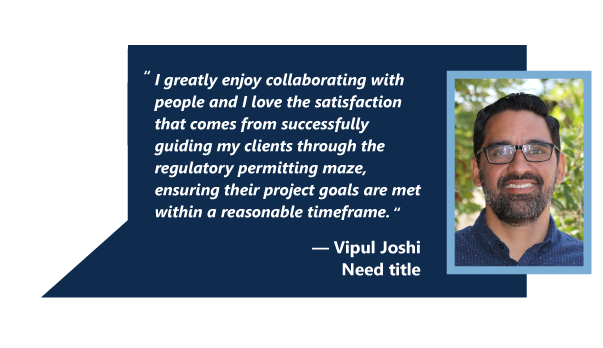
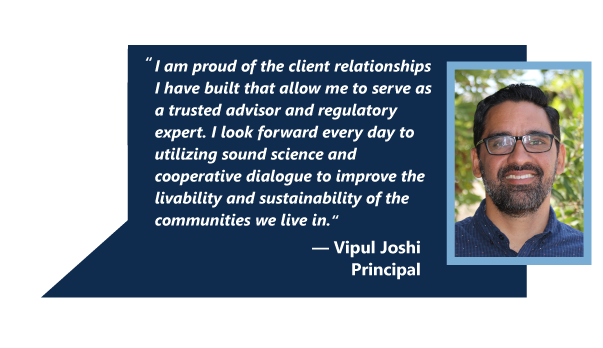
commit-update one quote

Changed region(s): [[0.2388, 0.1724, 0.9851, 0.8046]]

diff --git a/index.hyperesources/index_hype_generated_script.js b/index.hyperesources/index_hype_generated_script.js
@@ -3,5 +3,5 @@
 (function(){(function m(){function k(a,b,c,d){var e=!1;null==window[a]&&(null==window[b]?(window[b]=[],window[b].push(m),a=document.getElementsByTagName("head")[0],b=document.createElement("script"),e=l,false==!0&&(e=""),b.type="text/javascript",""!=d&&(b.integrity=d,b.setAttribute("crossorigin","anonymous")),b.src=e+"/"+c,a.appendChild(b)):window[b].push(m),e=!0);return e}var l="index.hyperesources",f="index",g="index_hype_container";if(false==
 !1)try{for(var c=document.getElementsByTagName("script"),a=0;a<c.length;a++){var d=c[a].src,b=null!=d?d.indexOf("/index_hype_generated_script.js"):-1;if(-1!=b){l=d.substr(0,b);break}}}catch(p){}c=navigator.userAgent.match(/MSIE (\d+\.\d+)/);c=parseFloat(c&&c[1])||null;d=!0==(null!=window.HYPE_734F||null!=window.HYPE_dtl_734F)||false==!0||null!=c&&10>c;a=!0==d?"HYPE-734.full.min.js":"HYPE-734.thin.min.js";c=!0==d?"F":"T";d=d?"":
 "";if(false==!1&&(a=k("HYPE_734"+c,"HYPE_dtl_734"+c,a,d),false==!0&&(a=a||k("HYPE_w_734","HYPE_wdtl_734","HYPE-734.waypoints.min.js","")),false==!0&&(a=a||k("Matter","HYPE_pdtl_734","HYPE-734.physics.min.js","")),a))return;d=window.HYPE.documents;if(null!=d[f]){b=1;a=f;do f=""+a+"-"+b++;while(null!=d[f]);for(var e=document.getElementsByTagName("div"),
-b=!1,a=0;a<e.length;a++)if(e[a].id==g&&null==e[a].getAttribute("HYP_dn")){var b=1,h=g;do g=""+h+"-"+b++;while(null!=document.getElementById(g));e[a].id=g;b=!0;break}if(!1==b)return}b=[];b=[];e={};h={};for(a=0;a<b.length;a++)try{h[b[a].identifier]=b[a].name,e[b[a].name]=eval("(function(){return "+b[a].source+"})();")}catch(n){window.console&&window.console.log(n),e[b[a].name]=function(){}}c=new window["HYPE_734"+c](f,g,{"-2":{n:"blank.gif"},"18":{p:1,n:"legend_2x.png",g:"281",o:true,t:"@2x"},"10":{p:1,n:"Keith_quote.png",g:"256",o:true,t:"@1x"},"11":{p:1,n:"Keith_quote_2x.png",g:"256",o:true,t:"@2x"},"0":{p:1,n:"state_lines.png",g:"37",t:"@1x"},"12":{p:1,n:"Dustin_quote.png",g:"214",t:"@1x"},"1":{p:1,n:"lines.png",g:"23",t:"@1x"},"2":{p:1,n:"peeps.png",g:"25",t:"@1x"},"13":{p:1,n:"map.png",g:"19",t:"@1x"},"3":{p:1,n:"laurie_M_quote.png",g:"126",t:"@1x"},"14":{p:1,n:"blue_dot.png",g:"59",o:true,t:"@1x"},"4":{p:1,n:"lisa_quote.png",g:"196",t:"@1x"},"5":{p:1,n:"erlin_quote.png",g:"234",t:"@1x"},"15":{p:1,n:"blue_dot_2x.png",g:"59",o:true,t:"@2x"},"6":{p:1,n:"adrienne_quote.png",g:"252",t:"@1x"},"16":{p:1,n:"Rose_quote.png",g:"86",t:"@1x"},"-1":{n:"PIE.htc"},"7":{p:1,n:"Vipul_quote.png",g:"160",t:"@1x"},"8":{p:1,n:"allison_quote.png",g:"254",o:true,t:"@1x"},"17":{p:1,n:"legend.png",g:"281",o:true,t:"@1x"},"9":{p:1,n:"allison_quote_2x.png",g:"254",o:true,t:"@2x"}},l,[],e,[{n:"opening",o:"1",X:[0]},{n:"adrienne",o:"236",X:[1]},{n:"Erlin",o:"218",X:[2]},{n:"Rose",o:"258",X:[3]},{n:"Allison",o:"88",X:[4]},{n:"Laurie",o:"110",X:[5]},{n:"vipul",o:"144",X:[6]},{n:"Keith",o:"162",X:[7]},{n:"Lisa",o:"180",X:[8]},{n:"dustin",o:"198",X:[9]}],
-[{o:"3",p:"600px",cA:false,Y:1240,Z:800,L:[],c:"#FFF",bY:1,d:1240,U:{},T:{kTimelineDefaultIdentifier:{q:false,z:2,i:"kTimelineDefaultIdentifier",n:"Main Timeline",a:[{f:"c",y:0,z:1,i:"e",e:0,s:1,o:"288"},{f:"c",y:0,z:1,i:"e",e:0,s:1,o:"293"},{f:"c",y:0,z:1,i:"e",e:0,s:1,o:"283"},{f:"c",y:0,z:1,i:"e",e:0,s:1,o:"286"},{f:"c",y:0,z:1,i:"e",e:0,s:1,o:"289"},{f:"c",y:0,z:1,i:"e",e:0,s:1,o:"291"},{f:"c",y:0,z:1,i:"e",e:0,s:1,o:"295"},{f:"c",y:0,z:1,i:"e",e:0,s:1,o:"284"},{f:"c",y:0,z:1,i:"e",e:0,s:1,o:"287"},{f:"c",y:1,z:1,i:"e",e:1,s:0,o:"288"},{f:"c",y:1,z:1,i:"e",e:1,s:0,o:"293"},{f:"c",y:1,z:1,i:"e",e:1,s:0,o:"283"},{f:"c",y:1,z:1,i:"e",e:1,s:0,o:"286"},{f:"c",y:1,z:1,i:"e",e:1,s:0,o:"289"},{f:"c",y:1,z:1,i:"e",e:1,s:0,o:"291"},{f:"c",y:1,z:1,i:"e",e:1,s:0,o:"295"},{f:"c",y:1,z:1,i:"e",e:1,s:0,o:"284"},{f:"c",y:1,z:1,i:"e",e:1,s:0,o:"287"},{f:"c",p:2,y:2,z:0,i:"ActionHandler",s:{a:[{b:"kTimelineDefaultIdentifier",p:3,z:false,symbolOid:"2"}]},o:"kTimelineDefaultIdentifier"},{y:2,i:"e",s:1,z:0,o:"288",f:"c"},{y:2,i:"e",s:1,z:0,o:"293",f:"c"},{y:2,i:"e",s:1,z:0,o:"283",f:"c"},{y:2,i:"e",s:1,z:0,o:"286",f:"c"},{y:2,i:"e",s:1,z:0,o:"289",f:"c"},{y:2,i:"e",s:1,z:0,o:"291",f:"c"},{y:2,i:"e",s:1,z:0,o:"295",f:"c"},{y:2,i:"e",s:1,z:0,o:"284",f:"c"},{y:2,i:"e",s:1,z:0,o:"287",f:"c"}],f:30,b:[]}},bZ:180,O:["285","290","294","292","284","295","288","286","289","287","293","283","296","291"],n:"Untitled Layout","_":0,v:{"292":{h:"23",p:"no-repeat",x:"visible",a:20,dB:"img",q:"100% 100%",j:"absolute",r:"inline",z:6,b:20,k:"div",d:800,c:1240,e:1},"289":{aD:{a:[{d:0.25,p:1,g:2,e:"162"}]},p:"no-repeat",x:"visible",h:"59",q:"100% 100%",a:487,j:"absolute",r:"inline",z:12,b:318,dB:"img",d:39,k:"div",c:39,e:1,aP:"pointer"},"284":{aD:{a:[{d:0.25,p:1,g:2,e:"218"}]},p:"no-repeat",x:"visible",h:"59",q:"100% 100%",a:1019,j:"absolute",r:"inline",z:15,b:230,dB:"img",d:39,k:"div",c:39,e:1,aP:"pointer"},"290":{h:"37",p:"no-repeat",x:"visible",a:0,dB:"img",q:"100% 100%",j:"absolute",r:"inline",z:2,k:"div",b:0,d:800,c:1240},"295":{aD:{a:[{d:0.5,p:1,g:2,e:"180"}]},p:"no-repeat",x:"visible",h:"59",q:"100% 100%",a:793,j:"absolute",r:"inline",z:14,b:279,dB:"img",d:39,k:"div",c:39,e:1,aP:"pointer"},"287":{aD:{a:[{d:0.5,p:1,g:2,e:"236"}]},p:"no-repeat",x:"visible",h:"59",q:"100% 100%",a:1135,j:"absolute",r:"inline",z:16,b:464,dB:"img",d:39,k:"div",c:39,e:1,aP:"pointer"},"293":{aD:{a:[{d:0.25,p:1,g:2,e:"110"}]},p:"no-repeat",x:"visible",h:"59",q:"100% 100%",a:85,j:"absolute",r:"inline",z:9,b:472,dB:"img",d:39,k:"div",c:39,e:1,aP:"pointer"},"296":{h:"281",p:"no-repeat",x:"visible",a:832,dB:"img",q:"100% 100%",j:"absolute",r:"inline",z:17,k:"div",b:539,d:22.32,c:201.6},"291":{aD:{a:[{d:0.5,p:1,g:2,e:"198"}]},p:"no-repeat",x:"visible",h:"59",q:"100% 100%",a:387,j:"absolute",r:"inline",z:13,b:606,dB:"img",d:39,k:"div",c:39,e:1,aP:"pointer"},"285":{h:"25",p:"no-repeat",x:"visible",a:4,dB:"img",q:"100% 100%",j:"absolute",r:"inline",z:5,k:"div",b:0,d:800,c:1240},"294":{h:"19",p:"no-repeat",x:"visible",a:0,dB:"img",q:"100% 100%",j:"absolute",r:"inline",z:1,k:"div",b:0,d:800,c:1240},"283":{aD:{a:[{d:0.25,p:1,g:2,e:"144"}]},p:"no-repeat",x:"visible",h:"59",q:"100% 100%",a:149,j:"absolute",r:"inline",z:10,b:541,dB:"img",d:39,k:"div",c:39,e:1,aP:"pointer"},"288":{aD:{a:[{d:0.25,p:1,g:2,e:"258"}]},p:"no-repeat",x:"visible",h:"59",q:"100% 100%",a:124,j:"absolute",r:"inline",b:310,z:7,dB:"img",d:39,k:"div",c:39,e:1,aP:"pointer",bD:"none"},"286":{aD:{a:[{d:0.25,p:1,g:2,e:"88"}]},p:"no-repeat",x:"visible",h:"59",q:"100% 100%",a:228,j:"absolute",r:"inline",z:11,b:305,dB:"img",d:39,k:"div",c:39,e:1,aP:"pointer"}}},{o:"251",p:"600px",cA:false,Y:1240,Z:800,L:[],c:"#FFF",bY:1,d:1240,U:{},T:{kTimelineDefaultIdentifier:{q:false,z:0,i:"kTimelineDefaultIdentifier",n:"Main Timeline",a:[],f:30,b:[]}},bZ:180,O:["299","301","297","298","300","302"],n:"Untitled Layout","_":1,v:{"299":{h:"25",p:"no-repeat",x:"visible",a:4,dB:"img",q:"100% 100%",j:"absolute",r:"inline",z:4,k:"div",b:0,d:800,c:1240},"301":{h:"37",p:"no-repeat",x:"visible",a:0,dB:"img",q:"100% 100%",j:"absolute",r:"inline",z:2,k:"div",b:0,d:800,c:1240},"302":{h:"59",p:"no-repeat",x:"visible",a:1135,q:"100% 100%",b:464,j:"absolute",r:"inline",z:15,dB:"img",k:"div",d:39,c:39,e:1,aP:"pointer",aC:{a:[{d:0.25,p:1,g:2,e:"1"}]}},"297":{h:"19",p:"no-repeat",x:"visible",a:0,dB:"img",q:"100% 100%",j:"absolute",r:"inline",z:1,k:"div",b:0,d:800,c:1240},"298":{h:"23",p:"no-repeat",x:"visible",a:20,dB:"img",q:"100% 100%",j:"absolute",r:"inline",z:5,b:20,k:"div",d:800,c:1240,e:1},"300":{h:"252",p:"no-repeat",x:"visible",a:581,dB:"img",q:"100% 100%",j:"absolute",r:"inline",z:6,k:"div",b:442,d:348,c:603}}},{o:"233",p:"600px",cA:false,Y:1240,Z:800,L:[],c:"#FFF",bY:1,d:1240,U:{},T:{kTimelineDefaultIdentifier:{q:false,z:0,i:"kTimelineDefaultIdentifier",n:"Main Timeline",a:[],f:30,b:[]}},bZ:180,O:["304","307","306","303","305","308"],n:"Untitled Layout","_":2,v:{"308":{h:"59",p:"no-repeat",x:"visible",a:1019,q:"100% 100%",b:230,j:"absolute",r:"inline",z:14,dB:"img",k:"div",d:39,c:39,e:1,aP:"pointer",aC:{a:[{d:0.25,p:1,g:2,e:"1"}]}},"305":{h:"234",p:"no-repeat",x:"visible",a:471,dB:"img",q:"100% 100%",j:"absolute",r:"inline",z:6,k:"div",b:203,d:348,c:603},"306":{h:"19",p:"no-repeat",x:"visible",a:0,dB:"img",q:"100% 100%",j:"absolute",r:"inline",z:1,k:"div",b:0,d:800,c:1240},"303":{h:"23",p:"no-repeat",x:"visible",a:20,dB:"img",q:"100% 100%",j:"absolute",r:"inline",z:5,b:20,k:"div",d:800,c:1240,e:1},"307":{h:"37",p:"no-repeat",x:"visible",a:0,dB:"img",q:"100% 100%",j:"absolute",r:"inline",z:2,k:"div",b:0,d:800,c:1240},"304":{h:"25",p:"no-repeat",x:"visible",a:4,dB:"img",q:"100% 100%",j:"absolute",r:"inline",z:4,k:"div",b:0,d:800,c:1240}}},{o:"266",p:"600px",cA:false,Y:1240,Z:800,L:[],c:"#FFF",bY:1,d:1240,U:{},T:{kTimelineDefaultIdentifier:{q:false,z:0,i:"kTimelineDefaultIdentifier",n:"Main Timeline",a:[],f:30,b:[]}},bZ:180,O:["314","313","312","311","310","309"],n:"Untitled Layout","_":3,v:{"313":{h:"37",p:"no-repeat",x:"visible",a:0,dB:"img",q:"100% 100%",j:"absolute",r:"inline",z:2,k:"div",b:0,d:800,c:1240},"310":{h:"86",p:"no-repeat",x:"visible",a:124,dB:"img",q:"100% 100%",j:"absolute",r:"inline",z:6,k:"div",b:285,d:348,c:603},"309":{h:"59",p:"no-repeat",x:"visible",a:124,q:"100% 100%",b:310,j:"absolute",r:"inline",z:7,dB:"img",k:"div",d:39,c:39,e:1,aP:"pointer",aC:{a:[{d:0.25,p:1,g:2,e:"1"}]}},"311":{h:"23",p:"no-repeat",x:"visible",a:20,dB:"img",q:"100% 100%",j:"absolute",r:"inline",z:5,b:20,k:"div",d:800,c:1240,e:1},"314":{h:"25",p:"no-repeat",x:"visible",a:4,dB:"img",q:"100% 100%",j:"absolute",r:"inline",z:4,k:"div",b:0,d:800,c:1240},"312":{h:"19",p:"no-repeat",x:"visible",a:0,dB:"img",q:"100% 100%",j:"absolute",r:"inline",z:1,k:"div",b:0,d:800,c:1240}}},{o:"103",p:"600px",cA:false,Y:1240,Z:800,L:[],c:"#FFF",bY:1,d:1240,U:{},T:{kTimelineDefaultIdentifier:{q:false,z:0,i:"kTimelineDefaultIdentifier",n:"Main Timeline",a:[],f:30,b:[]}},bZ:180,O:["317","318","319","315","320","316"],n:"Untitled Layout","_":4,v:{"320":{h:"59",p:"no-repeat",x:"visible",a:228,q:"100% 100%",b:305,j:"absolute",r:"inline",z:11,dB:"img",k:"div",d:39,c:39,e:1,aP:"pointer",aC:{a:[{d:0.25,p:1,g:2,e:"1"}]}},"317":{h:"25",p:"no-repeat",x:"visible",a:4,dB:"img",q:"100% 100%",j:"absolute",r:"inline",z:4,k:"div",b:0,d:800,c:1240},"318":{h:"37",p:"no-repeat",x:"visible",a:0,dB:"img",q:"100% 100%",j:"absolute",r:"inline",z:2,k:"div",b:0,d:800,c:1240},"315":{h:"23",p:"no-repeat",x:"visible",a:20,dB:"img",q:"100% 100%",j:"absolute",r:"inline",z:5,b:20,k:"div",d:800,c:1240,e:1},"319":{h:"19",p:"no-repeat",x:"visible",a:0,dB:"img",q:"100% 100%",j:"absolute",r:"inline",z:1,k:"div",b:0,d:800,c:1240},"316":{h:"254",p:"no-repeat",x:"visible",a:257,dB:"img",q:"100% 100%",j:"absolute",r:"inline",z:10,k:"div",b:325,d:252.48,c:544.56}}},{o:"125",p:"600px",cA:false,Y:1240,Z:800,L:[],c:"#FFF",bY:1,d:1240,U:{},T:{kTimelineDefaultIdentifier:{q:false,z:0,i:"kTimelineDefaultIdentifier",n:"Main Timeline",a:[],f:30,b:[]}},bZ:180,O:["321","324","322","325","323","326"],n:"Untitled Layout","_":5,v:{"325":{h:"23",p:"no-repeat",x:"visible",a:20,dB:"img",q:"100% 100%",j:"absolute",r:"inline",z:5,b:20,k:"div",d:800,c:1240,e:1},"322":{h:"19",p:"no-repeat",x:"visible",a:0,dB:"img",q:"100% 100%",j:"absolute",r:"inline",z:1,k:"div",b:0,d:800,c:1240},"326":{h:"59",p:"no-repeat",x:"visible",a:85,q:"100% 100%",b:472,j:"absolute",r:"inline",z:8,dB:"img",k:"div",d:39,c:39,e:1,aP:"pointer",aC:{a:[{d:0.25,p:1,g:2,e:"1"}]}},"323":{h:"126",p:"no-repeat",x:"visible",a:76,dB:"img",q:"100% 100%",j:"absolute",r:"inline",z:7,k:"div",b:444,d:348,c:603},"324":{h:"37",p:"no-repeat",x:"visible",a:0,dB:"img",q:"100% 100%",j:"absolute",r:"inline",z:2,k:"div",b:0,d:800,c:1240},"321":{h:"25",p:"no-repeat",x:"visible",a:4,dB:"img",q:"100% 100%",j:"absolute",r:"inline",z:4,k:"div",b:0,d:800,c:1240}}},{o:"159",p:"600px",cA:false,Y:1240,Z:800,L:[],c:"#FFF",bY:1,d:1240,U:{},T:{kTimelineDefaultIdentifier:{q:false,z:0,i:"kTimelineDefaultIdentifier",n:"Main Timeline",a:[],f:30,b:[]}},bZ:180,O:["329","331","330","327","328","332"],n:"Untitled Layout","_":6,v:{"330":{h:"19",p:"no-repeat",x:"visible",a:0,dB:"img",q:"100% 100%",j:"absolute",r:"inline",z:1,k:"div",b:0,d:800,c:1240},"329":{h:"25",p:"no-repeat",x:"visible",a:4,dB:"img",q:"100% 100%",j:"absolute",r:"inline",z:4,k:"div",b:0,d:800,c:1240},"331":{h:"37",p:"no-repeat",x:"visible",a:0,dB:"img",q:"100% 100%",j:"absolute",r:"inline",z:2,k:"div",b:0,d:800,c:1240},"327":{h:"23",p:"no-repeat",x:"visible",a:20,dB:"img",q:"100% 100%",j:"absolute",r:"inline",z:5,b:20,k:"div",d:800,c:1240,e:1},"332":{h:"59",p:"no-repeat",x:"visible",a:149,q:"100% 100%",b:541,j:"absolute",r:"inline",z:9,dB:"img",k:"div",d:39,c:39,e:1,aP:"pointer",aC:{a:[{d:0.25,p:1,g:2,e:"1"}]}},"328":{h:"160",p:"no-repeat",x:"visible",a:133,dB:"img",q:"100% 100%",j:"absolute",r:"inline",z:6,k:"div",b:267,d:348,c:603}}},{o:"177",p:"600px",cA:false,Y:1240,Z:800,L:[],c:"#FFF",bY:1,d:1240,U:{},T:{kTimelineDefaultIdentifier:{q:false,z:0,i:"kTimelineDefaultIdentifier",n:"Main Timeline",a:[],f:30,b:[]}},bZ:180,O:["333","337","338","335","336","334"],n:"Untitled Layout","_":7,v:{"337":{h:"37",p:"no-repeat",x:"visible",a:0,dB:"img",q:"100% 100%",j:"absolute",r:"inline",z:2,k:"div",b:0,d:800,c:1240},"334":{h:"256",p:"no-repeat",x:"visible",a:507,dB:"img",q:"100% 100%",j:"absolute",r:"inline",z:11,k:"div",b:338,d:252.48,c:541.44},"338":{h:"19",p:"no-repeat",x:"visible",a:0,dB:"img",q:"100% 100%",j:"absolute",r:"inline",z:1,k:"div",b:0,d:800,c:1240},"335":{h:"23",p:"no-repeat",x:"visible",a:20,dB:"img",q:"100% 100%",j:"absolute",r:"inline",z:5,b:20,k:"div",d:800,c:1240,e:1},"336":{h:"59",p:"no-repeat",x:"visible",a:487,q:"100% 100%",b:318,j:"absolute",r:"inline",z:12,dB:"img",k:"div",d:39,c:39,e:1,aP:"pointer",aC:{a:[{d:0.25,p:1,g:2,e:"1"}]}},"333":{h:"25",p:"no-repeat",x:"visible",a:4,dB:"img",q:"100% 100%",j:"absolute",r:"inline",z:4,k:"div",b:0,d:800,c:1240}}},{o:"195",p:"600px",cA:false,Y:1240,Z:800,L:[],c:"#FFF",bY:1,d:1240,U:{},T:{kTimelineDefaultIdentifier:{q:false,z:2,i:"kTimelineDefaultIdentifier",n:"Main Timeline",a:[{f:"c",y:0,z:1,i:"e",e:0,s:1,o:"342"},{f:"c",y:1,z:1,i:"e",e:1,s:0,o:"342"},{f:"c",p:2,y:2,z:0,i:"ActionHandler",s:{a:[{b:"kTimelineDefaultIdentifier",p:3,z:false,symbolOid:"2"}]},o:"kTimelineDefaultIdentifier"},{y:2,i:"e",s:1,z:0,o:"342",f:"c"}],f:30,b:[]}},bZ:180,O:["339","344","340","343","341","342"],n:"Untitled Layout","_":8,v:{"342":{h:"59",p:"no-repeat",x:"visible",a:793,q:"100% 100%",b:279,j:"absolute",r:"inline",z:13,dB:"img",k:"div",d:39,c:39,e:1,aP:"pointer",aC:{a:[{d:0.5,p:1,g:2,e:"1"}]}},"343":{h:"23",p:"no-repeat",x:"visible",a:20,dB:"img",q:"100% 100%",j:"absolute",r:"inline",z:5,b:20,k:"div",d:800,c:1240,e:1},"340":{h:"19",p:"no-repeat",x:"visible",a:0,dB:"img",q:"100% 100%",j:"absolute",r:"inline",z:1,k:"div",b:0,d:800,c:1240},"339":{h:"25",p:"no-repeat",x:"visible",a:4,dB:"img",q:"100% 100%",j:"absolute",r:"inline",z:4,k:"div",b:0,d:800,c:1240},"341":{h:"196",p:"no-repeat",x:"visible",a:245,dB:"img",q:"100% 100%",j:"absolute",r:"inline",z:6,k:"div",b:255,d:348,c:603},"344":{h:"37",p:"no-repeat",x:"visible",a:0,dB:"img",q:"100% 100%",j:"absolute",r:"inline",z:2,k:"div",b:0,d:800,c:1240}}},{o:"213",p:"600px",cA:false,Y:1240,Z:800,L:[],c:"#FFF",bY:1,d:1240,U:{},T:{kTimelineDefaultIdentifier:{q:false,z:0,i:"kTimelineDefaultIdentifier",n:"Main Timeline",a:[],f:30,b:[]}},bZ:180,O:["349","348","346","345","347","350"],n:"Untitled Layout","_":9,v:{"349":{h:"25",p:"no-repeat",x:"visible",a:4,dB:"img",q:"100% 100%",j:"absolute",r:"inline",z:4,k:"div",b:0,d:800,c:1240},"346":{h:"19",p:"no-repeat",x:"visible",a:0,dB:"img",q:"100% 100%",j:"absolute",r:"inline",z:1,k:"div",b:0,d:800,c:1240},"350":{h:"59",p:"no-repeat",x:"visible",a:387,q:"100% 100%",b:606,j:"absolute",r:"inline",z:12,dB:"img",k:"div",d:39,c:39,e:1,aP:"pointer",aC:{a:[{d:0.25,p:1,g:2,e:"1"}]}},"347":{h:"214",p:"no-repeat",x:"visible",a:394,dB:"img",q:"100% 100%",j:"absolute",r:"inline",z:6,k:"div",b:322,d:348,c:603},"348":{h:"37",p:"no-repeat",x:"visible",a:0,dB:"img",q:"100% 100%",j:"absolute",r:"inline",z:2,k:"div",b:0,d:800,c:1240},"345":{h:"23",p:"no-repeat",x:"visible",a:20,dB:"img",q:"100% 100%",j:"absolute",r:"inline",z:5,b:20,k:"div",d:800,c:1240,e:1}}}],{},h,{},null,false,true,-1,true,true,false,true,true);d[f]=c.API;document.getElementById(g).setAttribute("HYP_dn",f);c.z_o(this.body)})();})();
+b=!1,a=0;a<e.length;a++)if(e[a].id==g&&null==e[a].getAttribute("HYP_dn")){var b=1,h=g;do g=""+h+"-"+b++;while(null!=document.getElementById(g));e[a].id=g;b=!0;break}if(!1==b)return}b=[];b=[];e={};h={};for(a=0;a<b.length;a++)try{h[b[a].identifier]=b[a].name,e[b[a].name]=eval("(function(){return "+b[a].source+"})();")}catch(n){window.console&&window.console.log(n),e[b[a].name]=function(){}}c=new window["HYPE_734"+c](f,g,{"-2":{n:"blank.gif"},"18":{p:1,n:"Vipul_quote.png",g:"160",t:"@1x"},"10":{p:1,n:"Keith_quote_2x.png",g:"256",o:true,t:"@2x"},"11":{p:1,n:"Dustin_quote.png",g:"214",t:"@1x"},"0":{p:1,n:"state_lines.png",g:"37",t:"@1x"},"12":{p:1,n:"map.png",g:"19",t:"@1x"},"1":{p:1,n:"lines.png",g:"23",t:"@1x"},"2":{p:1,n:"peeps.png",g:"25",t:"@1x"},"13":{p:1,n:"blue_dot.png",g:"59",o:true,t:"@1x"},"3":{p:1,n:"laurie_M_quote.png",g:"126",t:"@1x"},"14":{p:1,n:"blue_dot_2x.png",g:"59",o:true,t:"@2x"},"4":{p:1,n:"lisa_quote.png",g:"196",t:"@1x"},"5":{p:1,n:"erlin_quote.png",g:"234",t:"@1x"},"15":{p:1,n:"Rose_quote.png",g:"86",t:"@1x"},"6":{p:1,n:"adrienne_quote.png",g:"252",t:"@1x"},"16":{p:1,n:"legend.png",g:"281",o:true,t:"@1x"},"-1":{n:"PIE.htc"},"7":{p:1,n:"allison_quote.png",g:"254",o:true,t:"@1x"},"8":{p:1,n:"allison_quote_2x.png",g:"254",o:true,t:"@2x"},"17":{p:1,n:"legend_2x.png",g:"281",o:true,t:"@2x"},"9":{p:1,n:"Keith_quote.png",g:"256",o:true,t:"@1x"}},l,[],e,[{n:"opening",o:"1",X:[0]},{n:"adrienne",o:"236",X:[1]},{n:"Erlin",o:"218",X:[2]},{n:"Rose",o:"258",X:[3]},{n:"Allison",o:"88",X:[4]},{n:"Laurie",o:"110",X:[5]},{n:"vipul",o:"144",X:[6]},{n:"Keith",o:"162",X:[7]},{n:"Lisa",o:"180",X:[8]},{n:"dustin",o:"198",X:[9]}],
+[{o:"3",p:"600px",cA:false,Y:1240,Z:800,L:[],c:"#FFF",bY:1,d:1240,U:{},T:{kTimelineDefaultIdentifier:{q:false,z:2,i:"kTimelineDefaultIdentifier",n:"Main Timeline",a:[{f:"c",y:0,z:1,i:"e",e:0,s:1,o:"288"},{f:"c",y:0,z:1,i:"e",e:0,s:1,o:"294"},{f:"c",y:0,z:1,i:"e",e:0,s:1,o:"283"},{f:"c",y:0,z:1,i:"e",e:0,s:1,o:"286"},{f:"c",y:0,z:1,i:"e",e:0,s:1,o:"290"},{f:"c",y:0,z:1,i:"e",e:0,s:1,o:"292"},{f:"c",y:0,z:1,i:"e",e:0,s:1,o:"296"},{f:"c",y:0,z:1,i:"e",e:0,s:1,o:"284"},{f:"c",y:0,z:1,i:"e",e:0,s:1,o:"287"},{f:"c",y:1,z:1,i:"e",e:1,s:0,o:"288"},{f:"c",y:1,z:1,i:"e",e:1,s:0,o:"294"},{f:"c",y:1,z:1,i:"e",e:1,s:0,o:"283"},{f:"c",y:1,z:1,i:"e",e:1,s:0,o:"286"},{f:"c",y:1,z:1,i:"e",e:1,s:0,o:"290"},{f:"c",y:1,z:1,i:"e",e:1,s:0,o:"292"},{f:"c",y:1,z:1,i:"e",e:1,s:0,o:"296"},{f:"c",y:1,z:1,i:"e",e:1,s:0,o:"284"},{f:"c",y:1,z:1,i:"e",e:1,s:0,o:"287"},{f:"c",p:2,y:2,z:0,i:"ActionHandler",s:{a:[{b:"kTimelineDefaultIdentifier",p:3,z:false,symbolOid:"2"}]},o:"kTimelineDefaultIdentifier"},{y:2,i:"e",s:1,z:0,o:"288",f:"c"},{y:2,i:"e",s:1,z:0,o:"294",f:"c"},{y:2,i:"e",s:1,z:0,o:"283",f:"c"},{y:2,i:"e",s:1,z:0,o:"286",f:"c"},{y:2,i:"e",s:1,z:0,o:"290",f:"c"},{y:2,i:"e",s:1,z:0,o:"292",f:"c"},{y:2,i:"e",s:1,z:0,o:"296",f:"c"},{y:2,i:"e",s:1,z:0,o:"284",f:"c"},{y:2,i:"e",s:1,z:0,o:"287",f:"c"}],f:30,b:[]}},bZ:180,O:["285","291","295","293","284","296","288","286","290","287","294","283","289","292"],n:"Untitled Layout","_":0,v:{"292":{aD:{a:[{d:0.5,p:1,g:2,e:"198"}]},p:"no-repeat",x:"visible",h:"59",q:"100% 100%",a:387,j:"absolute",r:"inline",z:13,b:606,dB:"img",d:39,k:"div",c:39,e:1,aP:"pointer"},"289":{h:"281",p:"no-repeat",x:"visible",a:832,dB:"img",q:"100% 100%",j:"absolute",r:"inline",z:17,k:"div",b:539,d:22.32,c:201.6},"284":{aD:{a:[{d:0.25,p:1,g:2,e:"218"}]},p:"no-repeat",x:"visible",h:"59",q:"100% 100%",a:1019,j:"absolute",r:"inline",z:15,b:230,dB:"img",d:39,k:"div",c:39,e:1,aP:"pointer"},"290":{aD:{a:[{d:0.25,p:1,g:2,e:"162"}]},p:"no-repeat",x:"visible",h:"59",q:"100% 100%",a:487,j:"absolute",r:"inline",z:12,b:318,dB:"img",d:39,k:"div",c:39,e:1,aP:"pointer"},"295":{h:"19",p:"no-repeat",x:"visible",a:0,dB:"img",q:"100% 100%",j:"absolute",r:"inline",z:1,k:"div",b:0,d:800,c:1240},"287":{aD:{a:[{d:0.5,p:1,g:2,e:"236"}]},p:"no-repeat",x:"visible",h:"59",q:"100% 100%",a:1135,j:"absolute",r:"inline",z:16,b:464,dB:"img",d:39,k:"div",c:39,e:1,aP:"pointer"},"293":{h:"23",p:"no-repeat",x:"visible",a:20,dB:"img",q:"100% 100%",j:"absolute",r:"inline",z:6,b:20,k:"div",d:800,c:1240,e:1},"296":{aD:{a:[{d:0.5,p:1,g:2,e:"180"}]},p:"no-repeat",x:"visible",h:"59",q:"100% 100%",a:793,j:"absolute",r:"inline",z:14,b:279,dB:"img",d:39,k:"div",c:39,e:1,aP:"pointer"},"291":{h:"37",p:"no-repeat",x:"visible",a:0,dB:"img",q:"100% 100%",j:"absolute",r:"inline",z:2,k:"div",b:0,d:800,c:1240},"285":{h:"25",p:"no-repeat",x:"visible",a:4,dB:"img",q:"100% 100%",j:"absolute",r:"inline",z:5,k:"div",b:0,d:800,c:1240},"294":{aD:{a:[{d:0.25,p:1,g:2,e:"110"}]},p:"no-repeat",x:"visible",h:"59",q:"100% 100%",a:85,j:"absolute",r:"inline",z:9,b:472,dB:"img",d:39,k:"div",c:39,e:1,aP:"pointer"},"283":{aD:{a:[{d:0.25,p:1,g:2,e:"144"}]},p:"no-repeat",x:"visible",h:"59",q:"100% 100%",a:149,j:"absolute",r:"inline",z:10,b:541,dB:"img",d:39,k:"div",c:39,e:1,aP:"pointer"},"288":{aD:{a:[{d:0.25,p:1,g:2,e:"258"}]},p:"no-repeat",x:"visible",h:"59",q:"100% 100%",a:124,j:"absolute",r:"inline",b:310,z:7,dB:"img",d:39,k:"div",c:39,e:1,aP:"pointer",bD:"none"},"286":{aD:{a:[{d:0.25,p:1,g:2,e:"88"}]},p:"no-repeat",x:"visible",h:"59",q:"100% 100%",a:228,j:"absolute",r:"inline",z:11,b:305,dB:"img",d:39,k:"div",c:39,e:1,aP:"pointer"}}},{o:"251",p:"600px",cA:false,Y:1240,Z:800,L:[],c:"#FFF",bY:1,d:1240,U:{},T:{kTimelineDefaultIdentifier:{q:false,z:0,i:"kTimelineDefaultIdentifier",n:"Main Timeline",a:[],f:30,b:[]}},bZ:180,O:["299","301","302","298","300","297"],n:"Untitled Layout","_":1,v:{"299":{h:"25",p:"no-repeat",x:"visible",a:4,dB:"img",q:"100% 100%",j:"absolute",r:"inline",z:4,k:"div",b:0,d:800,c:1240},"301":{h:"37",p:"no-repeat",x:"visible",a:0,dB:"img",q:"100% 100%",j:"absolute",r:"inline",z:2,k:"div",b:0,d:800,c:1240},"302":{h:"19",p:"no-repeat",x:"visible",a:0,dB:"img",q:"100% 100%",j:"absolute",r:"inline",z:1,k:"div",b:0,d:800,c:1240},"297":{h:"59",p:"no-repeat",x:"visible",a:1135,q:"100% 100%",b:464,j:"absolute",r:"inline",z:15,dB:"img",k:"div",d:39,c:39,e:1,aP:"pointer",aC:{a:[{d:0.25,p:1,g:2,e:"1"}]}},"298":{h:"23",p:"no-repeat",x:"visible",a:20,dB:"img",q:"100% 100%",j:"absolute",r:"inline",z:5,b:20,k:"div",d:800,c:1240,e:1},"300":{h:"252",p:"no-repeat",x:"visible",a:581,dB:"img",q:"100% 100%",j:"absolute",r:"inline",z:6,k:"div",b:442,d:348,c:603}}},{o:"233",p:"600px",cA:false,Y:1240,Z:800,L:[],c:"#FFF",bY:1,d:1240,U:{},T:{kTimelineDefaultIdentifier:{q:false,z:0,i:"kTimelineDefaultIdentifier",n:"Main Timeline",a:[],f:30,b:[]}},bZ:180,O:["304","307","306","303","305","308"],n:"Untitled Layout","_":2,v:{"308":{h:"59",p:"no-repeat",x:"visible",a:1019,q:"100% 100%",b:230,j:"absolute",r:"inline",z:14,dB:"img",k:"div",d:39,c:39,e:1,aP:"pointer",aC:{a:[{d:0.25,p:1,g:2,e:"1"}]}},"305":{h:"234",p:"no-repeat",x:"visible",a:471,dB:"img",q:"100% 100%",j:"absolute",r:"inline",z:6,k:"div",b:203,d:348,c:603},"306":{h:"19",p:"no-repeat",x:"visible",a:0,dB:"img",q:"100% 100%",j:"absolute",r:"inline",z:1,k:"div",b:0,d:800,c:1240},"303":{h:"23",p:"no-repeat",x:"visible",a:20,dB:"img",q:"100% 100%",j:"absolute",r:"inline",z:5,b:20,k:"div",d:800,c:1240,e:1},"307":{h:"37",p:"no-repeat",x:"visible",a:0,dB:"img",q:"100% 100%",j:"absolute",r:"inline",z:2,k:"div",b:0,d:800,c:1240},"304":{h:"25",p:"no-repeat",x:"visible",a:4,dB:"img",q:"100% 100%",j:"absolute",r:"inline",z:4,k:"div",b:0,d:800,c:1240}}},{o:"266",p:"600px",cA:false,Y:1240,Z:800,L:[],c:"#FFF",bY:1,d:1240,U:{},T:{kTimelineDefaultIdentifier:{q:false,z:0,i:"kTimelineDefaultIdentifier",n:"Main Timeline",a:[],f:30,b:[]}},bZ:180,O:["314","313","312","311","310","309"],n:"Untitled Layout","_":3,v:{"313":{h:"37",p:"no-repeat",x:"visible",a:0,dB:"img",q:"100% 100%",j:"absolute",r:"inline",z:2,k:"div",b:0,d:800,c:1240},"310":{h:"86",p:"no-repeat",x:"visible",a:124,dB:"img",q:"100% 100%",j:"absolute",r:"inline",z:6,k:"div",b:285,d:348,c:603},"309":{h:"59",p:"no-repeat",x:"visible",a:124,q:"100% 100%",b:310,j:"absolute",r:"inline",z:7,dB:"img",k:"div",d:39,c:39,e:1,aP:"pointer",aC:{a:[{d:0.25,p:1,g:2,e:"1"}]}},"311":{h:"23",p:"no-repeat",x:"visible",a:20,dB:"img",q:"100% 100%",j:"absolute",r:"inline",z:5,b:20,k:"div",d:800,c:1240,e:1},"314":{h:"25",p:"no-repeat",x:"visible",a:4,dB:"img",q:"100% 100%",j:"absolute",r:"inline",z:4,k:"div",b:0,d:800,c:1240},"312":{h:"19",p:"no-repeat",x:"visible",a:0,dB:"img",q:"100% 100%",j:"absolute",r:"inline",z:1,k:"div",b:0,d:800,c:1240}}},{o:"103",p:"600px",cA:false,Y:1240,Z:800,L:[],c:"#FFF",bY:1,d:1240,U:{},T:{kTimelineDefaultIdentifier:{q:false,z:0,i:"kTimelineDefaultIdentifier",n:"Main Timeline",a:[],f:30,b:[]}},bZ:180,O:["317","318","319","315","320","316"],n:"Untitled Layout","_":4,v:{"320":{h:"59",p:"no-repeat",x:"visible",a:228,q:"100% 100%",b:305,j:"absolute",r:"inline",z:11,dB:"img",k:"div",d:39,c:39,e:1,aP:"pointer",aC:{a:[{d:0.25,p:1,g:2,e:"1"}]}},"317":{h:"25",p:"no-repeat",x:"visible",a:4,dB:"img",q:"100% 100%",j:"absolute",r:"inline",z:4,k:"div",b:0,d:800,c:1240},"318":{h:"37",p:"no-repeat",x:"visible",a:0,dB:"img",q:"100% 100%",j:"absolute",r:"inline",z:2,k:"div",b:0,d:800,c:1240},"315":{h:"23",p:"no-repeat",x:"visible",a:20,dB:"img",q:"100% 100%",j:"absolute",r:"inline",z:5,b:20,k:"div",d:800,c:1240,e:1},"319":{h:"19",p:"no-repeat",x:"visible",a:0,dB:"img",q:"100% 100%",j:"absolute",r:"inline",z:1,k:"div",b:0,d:800,c:1240},"316":{h:"254",p:"no-repeat",x:"visible",a:257,dB:"img",q:"100% 100%",j:"absolute",r:"inline",z:10,k:"div",b:325,d:252.48,c:544.56}}},{o:"125",p:"600px",cA:false,Y:1240,Z:800,L:[],c:"#FFF",bY:1,d:1240,U:{},T:{kTimelineDefaultIdentifier:{q:false,z:0,i:"kTimelineDefaultIdentifier",n:"Main Timeline",a:[],f:30,b:[]}},bZ:180,O:["321","324","322","325","323","326"],n:"Untitled Layout","_":5,v:{"325":{h:"23",p:"no-repeat",x:"visible",a:20,dB:"img",q:"100% 100%",j:"absolute",r:"inline",z:5,b:20,k:"div",d:800,c:1240,e:1},"322":{h:"19",p:"no-repeat",x:"visible",a:0,dB:"img",q:"100% 100%",j:"absolute",r:"inline",z:1,k:"div",b:0,d:800,c:1240},"326":{h:"59",p:"no-repeat",x:"visible",a:85,q:"100% 100%",b:472,j:"absolute",r:"inline",z:8,dB:"img",k:"div",d:39,c:39,e:1,aP:"pointer",aC:{a:[{d:0.25,p:1,g:2,e:"1"}]}},"323":{h:"126",p:"no-repeat",x:"visible",a:76,dB:"img",q:"100% 100%",j:"absolute",r:"inline",z:7,k:"div",b:444,d:348,c:603},"324":{h:"37",p:"no-repeat",x:"visible",a:0,dB:"img",q:"100% 100%",j:"absolute",r:"inline",z:2,k:"div",b:0,d:800,c:1240},"321":{h:"25",p:"no-repeat",x:"visible",a:4,dB:"img",q:"100% 100%",j:"absolute",r:"inline",z:4,k:"div",b:0,d:800,c:1240}}},{o:"159",p:"600px",cA:false,Y:1240,Z:800,L:[],c:"#FFF",bY:1,d:1240,U:{},T:{kTimelineDefaultIdentifier:{q:false,z:0,i:"kTimelineDefaultIdentifier",n:"Main Timeline",a:[],f:30,b:[]}},bZ:180,O:["329","331","330","327","328","332"],n:"Untitled Layout","_":6,v:{"330":{h:"19",p:"no-repeat",x:"visible",a:0,dB:"img",q:"100% 100%",j:"absolute",r:"inline",z:1,k:"div",b:0,d:800,c:1240},"329":{h:"25",p:"no-repeat",x:"visible",a:4,dB:"img",q:"100% 100%",j:"absolute",r:"inline",z:4,k:"div",b:0,d:800,c:1240},"331":{h:"37",p:"no-repeat",x:"visible",a:0,dB:"img",q:"100% 100%",j:"absolute",r:"inline",z:2,k:"div",b:0,d:800,c:1240},"327":{h:"23",p:"no-repeat",x:"visible",a:20,dB:"img",q:"100% 100%",j:"absolute",r:"inline",z:5,b:20,k:"div",d:800,c:1240,e:1},"332":{h:"59",p:"no-repeat",x:"visible",a:149,q:"100% 100%",b:541,j:"absolute",r:"inline",z:9,dB:"img",k:"div",d:39,c:39,e:1,aP:"pointer",aC:{a:[{d:0.25,p:1,g:2,e:"1"}]}},"328":{h:"160",p:"no-repeat",x:"visible",a:133,dB:"img",q:"100% 100%",j:"absolute",r:"inline",z:6,k:"div",b:267,d:348,c:603}}},{o:"177",p:"600px",cA:false,Y:1240,Z:800,L:[],c:"#FFF",bY:1,d:1240,U:{},T:{kTimelineDefaultIdentifier:{q:false,z:0,i:"kTimelineDefaultIdentifier",n:"Main Timeline",a:[],f:30,b:[]}},bZ:180,O:["337","333","334","335","336","338"],n:"Untitled Layout","_":7,v:{"337":{h:"25",p:"no-repeat",x:"visible",a:4,dB:"img",q:"100% 100%",j:"absolute",r:"inline",z:4,k:"div",b:0,d:800,c:1240},"334":{h:"19",p:"no-repeat",x:"visible",a:0,dB:"img",q:"100% 100%",j:"absolute",r:"inline",z:1,k:"div",b:0,d:800,c:1240},"338":{h:"256",p:"no-repeat",x:"visible",a:507,dB:"img",q:"100% 100%",j:"absolute",r:"inline",z:11,k:"div",b:338,d:252.48,c:541.44},"335":{h:"23",p:"no-repeat",x:"visible",a:20,dB:"img",q:"100% 100%",j:"absolute",r:"inline",z:5,b:20,k:"div",d:800,c:1240,e:1},"336":{h:"59",p:"no-repeat",x:"visible",a:487,q:"100% 100%",b:318,j:"absolute",r:"inline",z:12,dB:"img",k:"div",d:39,c:39,e:1,aP:"pointer",aC:{a:[{d:0.25,p:1,g:2,e:"1"}]}},"333":{h:"37",p:"no-repeat",x:"visible",a:0,dB:"img",q:"100% 100%",j:"absolute",r:"inline",z:2,k:"div",b:0,d:800,c:1240}}},{o:"195",p:"600px",cA:false,Y:1240,Z:800,L:[],c:"#FFF",bY:1,d:1240,U:{},T:{kTimelineDefaultIdentifier:{q:false,z:2,i:"kTimelineDefaultIdentifier",n:"Main Timeline",a:[{f:"c",y:0,z:1,i:"e",e:0,s:1,o:"342"},{f:"c",y:1,z:1,i:"e",e:1,s:0,o:"342"},{f:"c",p:2,y:2,z:0,i:"ActionHandler",s:{a:[{b:"kTimelineDefaultIdentifier",p:3,z:false,symbolOid:"2"}]},o:"kTimelineDefaultIdentifier"},{y:2,i:"e",s:1,z:0,o:"342",f:"c"}],f:30,b:[]}},bZ:180,O:["339","344","340","343","341","342"],n:"Untitled Layout","_":8,v:{"342":{h:"59",p:"no-repeat",x:"visible",a:793,q:"100% 100%",b:279,j:"absolute",r:"inline",z:13,dB:"img",k:"div",d:39,c:39,e:1,aP:"pointer",aC:{a:[{d:0.5,p:1,g:2,e:"1"}]}},"343":{h:"23",p:"no-repeat",x:"visible",a:20,dB:"img",q:"100% 100%",j:"absolute",r:"inline",z:5,b:20,k:"div",d:800,c:1240,e:1},"340":{h:"19",p:"no-repeat",x:"visible",a:0,dB:"img",q:"100% 100%",j:"absolute",r:"inline",z:1,k:"div",b:0,d:800,c:1240},"339":{h:"25",p:"no-repeat",x:"visible",a:4,dB:"img",q:"100% 100%",j:"absolute",r:"inline",z:4,k:"div",b:0,d:800,c:1240},"341":{h:"196",p:"no-repeat",x:"visible",a:245,dB:"img",q:"100% 100%",j:"absolute",r:"inline",z:6,k:"div",b:255,d:348,c:603},"344":{h:"37",p:"no-repeat",x:"visible",a:0,dB:"img",q:"100% 100%",j:"absolute",r:"inline",z:2,k:"div",b:0,d:800,c:1240}}},{o:"213",p:"600px",cA:false,Y:1240,Z:800,L:[],c:"#FFF",bY:1,d:1240,U:{},T:{kTimelineDefaultIdentifier:{q:false,z:0,i:"kTimelineDefaultIdentifier",n:"Main Timeline",a:[],f:30,b:[]}},bZ:180,O:["349","348","346","345","347","350"],n:"Untitled Layout","_":9,v:{"349":{h:"25",p:"no-repeat",x:"visible",a:4,dB:"img",q:"100% 100%",j:"absolute",r:"inline",z:4,k:"div",b:0,d:800,c:1240},"346":{h:"19",p:"no-repeat",x:"visible",a:0,dB:"img",q:"100% 100%",j:"absolute",r:"inline",z:1,k:"div",b:0,d:800,c:1240},"350":{h:"59",p:"no-repeat",x:"visible",a:387,q:"100% 100%",b:606,j:"absolute",r:"inline",z:12,dB:"img",k:"div",d:39,c:39,e:1,aP:"pointer",aC:{a:[{d:0.25,p:1,g:2,e:"1"}]}},"347":{h:"214",p:"no-repeat",x:"visible",a:394,dB:"img",q:"100% 100%",j:"absolute",r:"inline",z:6,k:"div",b:322,d:348,c:603},"348":{h:"37",p:"no-repeat",x:"visible",a:0,dB:"img",q:"100% 100%",j:"absolute",r:"inline",z:2,k:"div",b:0,d:800,c:1240},"345":{h:"23",p:"no-repeat",x:"visible",a:20,dB:"img",q:"100% 100%",j:"absolute",r:"inline",z:5,b:20,k:"div",d:800,c:1240,e:1}}}],{},h,{},null,false,true,-1,true,true,false,true,true);d[f]=c.API;document.getElementById(g).setAttribute("HYP_dn",f);c.z_o(this.body)})();})();

diff --git a/index.html b/index.html
@@ -24,7 +24,7 @@
 	<!-- copy these lines to your document: -->
 
 	<div id="index_hype_container" class="HYPE_document" style="margin:auto;position:relative;width:1240px;height:800px;overflow:hidden;">
-		<script type="text/javascript" charset="utf-8" src="index.hyperesources/index_hype_generated_script.js?22529"></script>
+		<script type="text/javascript" charset="utf-8" src="index.hyperesources/index_hype_generated_script.js?12566"></script>
 	</div>
 
 	<!-- end copy -->
